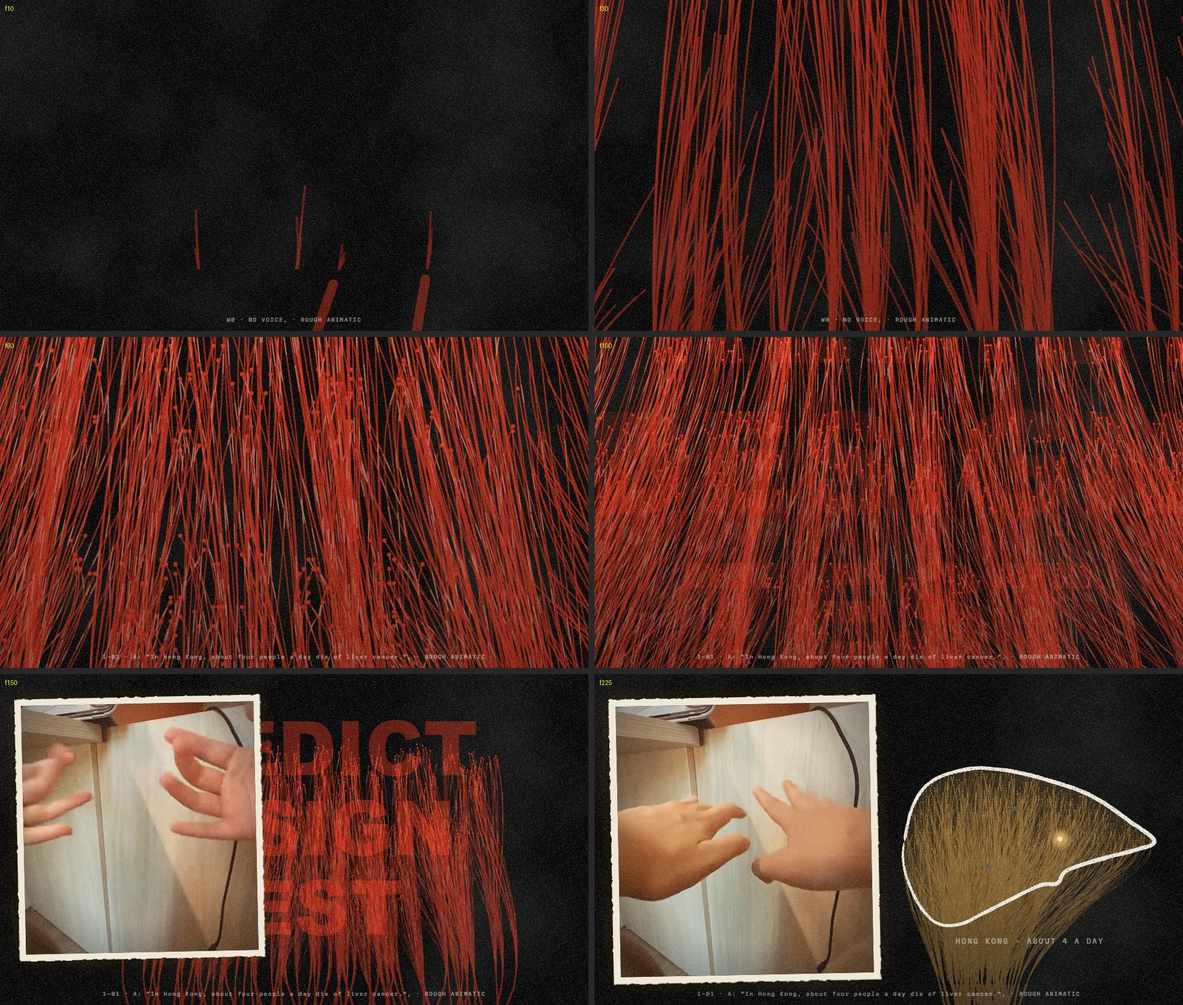
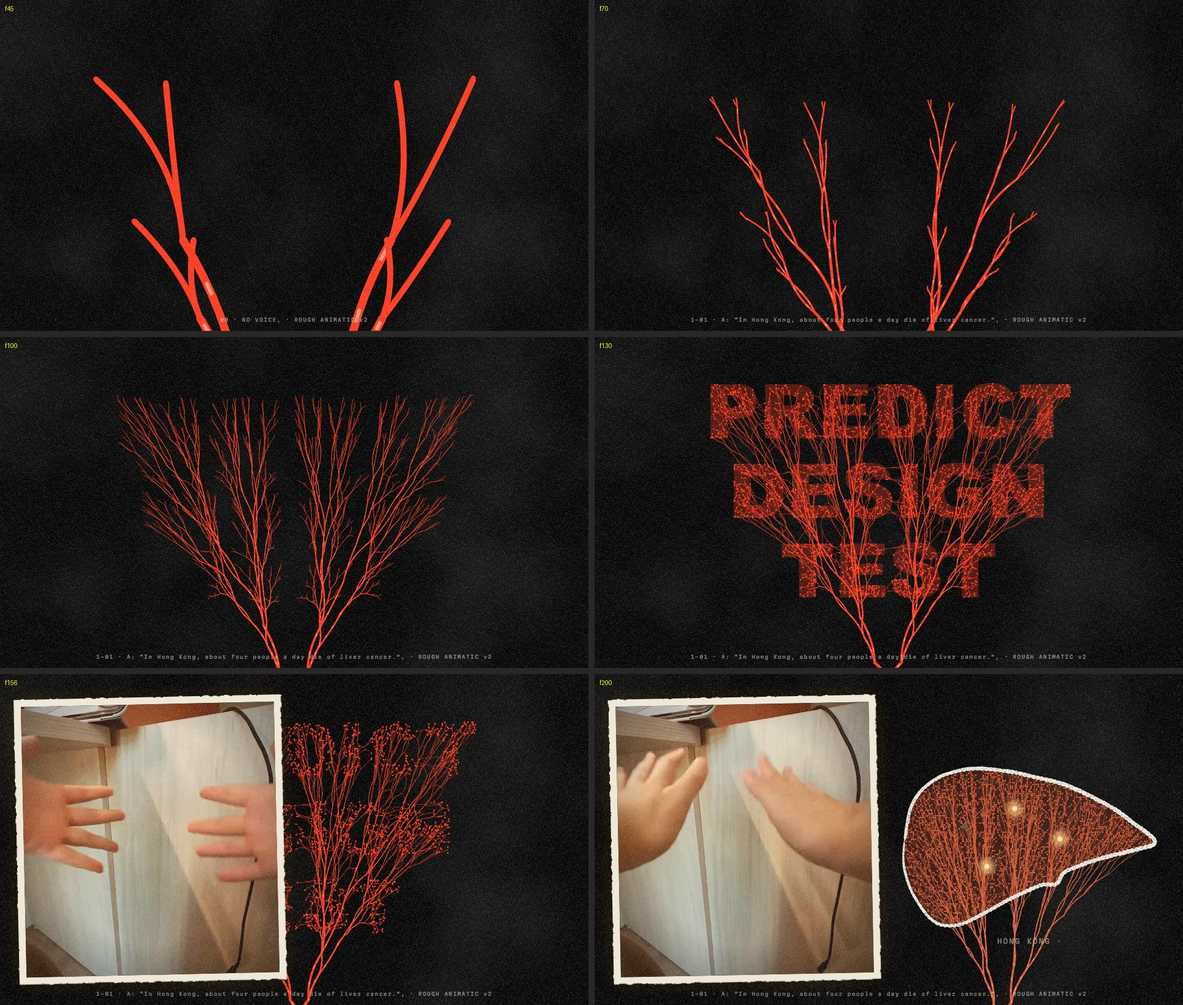
S1 粗稿 v2：血管改成一棵分叉树（一根主干分 11 层，末梢拼字），字到肝用同一棵树平滑变形；四条命可选小灯或像素心

diff --git a/镜头设计_v2/tests/T4_remotion/src/v3/s1/Open.jsx b/镜头设计_v2/tests/T4_remotion/src/v3/s1/Open.jsx
@@ -1,5 +1,6 @@
-// V3-S1-Open (rough animatic, W0 + 1-01): red vessels grow toward a close, low camera, the camera pulls back and the
-// vessels turn out to spell PREDICT / DESIGN / TEST; then they unweave into a liver that sickens while four lights go out.
+// V3-S1-Open (rough animatic v2, W0 + 1-01). One vessel enters from below and keeps forking (11 levels, 2048 tips).
+// The camera rides up the trunk and pulls back: the tips spell PREDICT / DESIGN / TEST. The same tree then slides,
+// node by node, into a liver, which sickens while four lives go out (lights or pixel hearts).
 // Stand-in for the TouchDesigner pass: shapes and timing only.
 import React, {useMemo} from "react";
 import {AbsoluteFill, Sequence, staticFile, useCurrentFrame} from "remotion";
@@ -13,10 +14,16 @@ import {OnCamCard} from "../oncam/Card";
 export const S1_OPEN_FRAMES = 240; // W0 0–60, 1-01 60–240
 
 const WORDS = [["PREDICT", 330], ["DESIGN", 590], ["TEST", 850]];
-const FONT = `900 245px "Arial Black", Impact, sans-serif`;
-const N = 1100, TRUNKS = 64;
+const FONT_FAMILY = `"Arial Black", Impact, sans-serif`;
+const L = 11, LEAVES = 1 << L;
+const ROOT_T = [960, 1190], ROOT_L = [1330, 1190];
 const LIVER = {x: 1010, y: 300, w: 820};
-const SICK = "#9A8A3E", LIVER_OK = "#6E1A10", LIVER_SICK = "#4A4424";
+const SICK = "#8E8A5A", LIVER_OK = "#6E1A10", LIVER_SICK = "#3E3C2C";
+
+// growth: level k edges start at T[k], take D[k] frames; each level starts when its parent is ~80% grown
+const D = Array.from({length: L}, (_, k) => lerp(20, 8, Math.pow(k / (L - 1), 0.7)));
+const T = D.reduce((a, d, k) => [...a, a[k] + 0.8 * d], [0]);
+const MORPH = [140, 182], SWEEP = 14;     // letters → liver, sweeping left to right
 
 const mix = (a, b, t) => {
   const p = h => [1, 3, 5].map(i => parseInt(h.slice(i, i + 2), 16));
@@ -32,116 +39,145 @@ const inside = (poly, x, y) => {
   return c;
 };
 const pick = (pts, n, seed) => pts.map((p, i) => [hash(i, seed), p]).sort((a, b) => a[0] - b[0]).slice(0, n).map(e => e[1]);
+const centroid = pts => [pts.reduce((s, p) => s + p[0], 0) / pts.length, pts.reduce((s, p) => s + p[1], 0) / pts.length];
 
-/** Strand targets on the letters and in the liver, grouped into trunks that leave the bottom edge together. */
-const useStrands = () => useMemo(() => {
+/** Halve the point set along its longer side, recursively: every tree built this way has the same shape. */
+const splitTree = (pts, out, d = 0, parent = -1) => {
+  const id = out.length;
+  out.push({d, parent, c: centroid(pts), n: pts.length});
+  if (d === L) return;
+  const xs = pts.map(p => p[0]), ys = pts.map(p => p[1]);
+  const ax = Math.max(...xs) - Math.min(...xs) >= Math.max(...ys) - Math.min(...ys) ? 0 : 1;
+  const s = [...pts].sort((a, b) => a[ax] - b[ax]), h = s.length / 2;
+  splitTree(s.slice(0, h), out, d + 1, id);
+  splitTree(s.slice(h), out, d + 1, id);
+};
+/** Node positions: each level walks ~2/(levels left) of the way from its parent toward its own centroid, so tips land exactly. */
+const place = (nodes, root) => {
+  const P = [];
+  nodes.forEach((n, i) => { P[i] = n.parent < 0 ? root : [0, 1].map(a => lerp(P[n.parent][a], n.c[a], Math.min(1, 1.9 / (L - n.d + 1)))); });
+  return P;
+};
+
+const useTree = () => useMemo(() => {
   const cv = document.createElement("canvas");
   cv.width = W; cv.height = H;
   const g = cv.getContext("2d");
-  g.fillStyle = "#fff"; g.textAlign = "center"; g.font = FONT;
+  g.fillStyle = "#fff"; g.textAlign = "center"; g.font = `900 245px ${FONT_FAMILY}`;
   WORDS.forEach(([t, y]) => g.fillText(t, W / 2, y));
-  const d = g.getImageData(0, 0, W, H).data;
-  const txt = [];
-  for (let y = 0; y < H; y += 5) for (let x = 0; x < W; x += 5) if (d[(y * W + x) * 4 + 3] > 128) txt.push([x, y]);
+  const px = g.getImageData(0, 0, W, H).data, txt = [];
+  for (let y = 0; y < H; y += 4) for (let x = 0; x < W; x += 4) if (px[(y * W + x) * 4 + 3] > 128) txt.push([x, y]);
   const lp = liverPts(LIVER.x, LIVER.y, LIVER.w), liv = [];
-  for (let y = LIVER.y; y < LIVER.y + LIVER.w * 0.65; y += 9) for (let x = LIVER.x; x < LIVER.x + LIVER.w; x += 9) if (inside(lp, x, y)) liv.push([x, y]);
-  const T = pick(txt, N, 3).sort((a, b) => a[0] - b[0]);
-  const L = pick(liv, N, 5).sort((a, b) => a[0] - b[0]);
-  return T.map((t, i) => {
-    const k = Math.floor(i / (N / TRUNKS));
-    return {t, l: L[i], k, sx: 140 + (W - 280) * (k + 0.5) / TRUNKS + (hash(k, 9) - 0.5) * 60,
-      bend: (hash(k, 11) - 0.5) * 260, fan: (hash(i, 13) - 0.5) * 120, ph: hash(i, 23)};
-  }).map(s => ({...s, start: 44 * Math.abs(s.sx - 940) / 840 + 8 * hash(s.k, 17) + 8 * hash(s.ph * 1e4, 19)}));
+  for (let y = LIVER.y; y < LIVER.y + LIVER.w * 0.65; y += 6) for (let x = LIVER.x; x < LIVER.x + LIVER.w; x += 6) if (inside(lp, x, y)) liv.push([x, y]);
+  const nt = [], nl = [];
+  splitTree(pick(txt, LEAVES, 3), nt);
+  splitTree(pick(liv, LEAVES, 5), nl);
+  const pt = place(nt, ROOT_T), pl = place(nl, ROOT_L);
+  const meanY = Array.from({length: L + 1}, (_, k) => { const ys = pt.filter((_, i) => nt[i].d === k).map(p => p[1]); return ys.reduce((a, b) => a + b, 0) / ys.length; });
+  return {nodes: nt.map((n, i) => ({d: n.d, parent: n.parent, n: n.n, t: pt[i], l: pl[i], delay: SWEEP * clamp01((nt[i].c[0] - 240) / 1440)})), meanY};
 }, []);
 
-/** One thick trunk per bundle, from below the frame up to where its strands fan out. */
-const trunkPath = (s, u) => {
-  const sx = lerp(s.sx, 1260 + (s.sx - W / 2) * 0.12, u), sy = H + 160, split = lerp(sy, lerp(600, 560, u), 0.33);
-  return {sx, sy, x2: sx + s.bend * 0.45, y2: split};
+// camera: rides up with the growth front while zooming out (log-scale zoom so it never jumps), then settles on the full frame
+const camAt = (f, meanY) => {
+  let k = 0;
+  while (k < L && f > T[k] + D[k]) k++;
+  const fr = k >= L ? 1 : clamp01((f - T[k]) / D[k]);
+  const front = k >= L ? meanY[L] : lerp(meanY[k], meanY[k + 1], fr);
+  const z = Math.pow(5.2, 1 - inOut(ramp(f, 0, 126)));
+  const y = lerp(front, H / 2, inOut(ramp(f, 40, 126)));
+  return [z, W / 2, y];
 };
 
-// camera: [frame, zoom, centre x, centre y]
-const CAM = [[0, 4.6, 940, 960], [62, 3.1, 980, 640], [78, 2.8, 960, 600], [122, 1, 960, 540]];
-const camAt = f => {
-  let i = 0;
-  while (i < CAM.length - 2 && f > CAM[i + 1][0]) i++;
-  const [f0, z0, x0, y0] = CAM[i], [f1, z1, x1, y1] = CAM[i + 1];
-  const u = inOut(ramp(f, f0, f1));
-  return [lerp(z0, z1, u), lerp(x0, x1, u), lerp(y0, y1, u)];
-};
+const PIX_HEART = [".XX.XX.", "XXXXXXX", "XXXXXXX", ".XXXXX.", "..XXX..", "...X..."];
+const Heart = ({x, y, cell, fill, stroke}) => <g>
+  {PIX_HEART.flatMap((row, r) => [...row].map((ch, c) => ch === "X" &&
+    <rect key={`${r}-${c}`} x={x + c * cell} y={y + r * cell} width={cell} height={cell} fill={fill} stroke={stroke} strokeWidth={stroke ? 2 : 0}/>))}
+</g>;
 
-const LIGHTS = [[0.24, 0.24, 190], [0.44, 0.17, 203], [0.33, 0.40, 216], [0.62, 0.29, 229]];
+const OFF = [192, 205, 218, 231];
 
-const Scene = () => {
-  const f = useCurrentFrame();
-  const S = useStrands();
-  const [z, cx, cy] = camAt(f);
-  const u = inOut(ramp(f, 132, 176));          // letters → liver
-  const sick = ramp(f, 176, 236);
-  const vein = mix(C.verm, SICK, sick), flow = mix("#FFB09A", "#D8CC8A", sick);
-  const P = (a, b) => [LIVER.x + a * LIVER.w, LIVER.y + b * LIVER.w];
-  return <svg width={W} height={H} style={{position: "absolute"}}>
-    <InkDefs/>
-    <defs>
-      <linearGradient id="s1-fade" gradientUnits="userSpaceOnUse" x1="0" y1={H + 200} x2="0" y2="200">
-        <stop offset="0" stopColor="#fff" stopOpacity="0.25"/><stop offset="1" stopColor="#fff" stopOpacity="1"/>
-      </linearGradient>
-      <mask id="s1-mask"><rect x={-W} y={-H} width={W * 3} height={H * 3} fill="url(#s1-fade)"/></mask>
-      <filter id="s1-glow" x="-200%" y="-200%" width="500%" height="500%"><feGaussianBlur stdDeviation="9"/></filter>
-    </defs>
-    <g transform={`translate(${W / 2} ${H / 2}) scale(${z}) translate(${-cx} ${-cy})`}>
-      {/* liver body under the vessels */}
-      <path d={"M" + liverPts(LIVER.x, LIVER.y, LIVER.w).map(p => p.join(",")).join("L") + "Z"}
-        fill={mix(LIVER_OK, LIVER_SICK, sick)} opacity={0.55 * outCubic(ramp(f, 150, 180))}/>
-      {/* letters, faintly filled once the camera is far enough back to read them */}
-      <g opacity={0.5 * ramp(f, 92, 124) * (1 - u)}>
-        {WORDS.map(([t, y]) => <text key={t} x={W / 2} y={y} textAnchor="middle" fontFamily={`"Arial Black", Impact, sans-serif`}
-          fontWeight={900} fontSize={245} fill={C.verm}>{t}</text>)}
-      </g>
-      <g mask="url(#s1-mask)">
-        {S.map((s, i) => {
-          const grow = outCubic(ramp(f, s.start + 4, s.start + 44));
-          if (grow <= 0) return null;
-          const tx = lerp(s.t[0], s.l[0], u), ty = lerp(s.t[1], s.l[1], u);
-          const tr = trunkPath(s, u), tg = outCubic(ramp(f, s.start - 6, s.start + 10));
-          const d = `M${tr.x2},${tr.y2} C${tr.x2 + s.bend * 0.4},${lerp(tr.y2, ty, 0.35)} ${tx + s.fan},${lerp(tr.y2, ty, 0.75)} ${tx},${ty}`;
-          const first = i % (N / TRUNKS) < 1;
-          return <g key={i}>
-            {first && <path d={`M${tr.sx},${tr.sy} Q${tr.sx + s.bend * 0.1},${(tr.sy + tr.y2) / 2} ${tr.x2},${tr.y2}`} pathLength={1} fill="none"
-              stroke={vein} strokeWidth={7} strokeLinecap="round" strokeDasharray="1 1" strokeDashoffset={1 - tg} opacity={0.9}/>}
-            <path d={d} pathLength={1} fill="none" stroke={vein} strokeWidth={1.5} strokeDasharray="1 1" strokeDashoffset={1 - grow} opacity={0.75}/>
-            {grow > 0.98 && <path d={d} pathLength={1} fill="none" stroke={flow} strokeWidth={1.1} strokeDasharray="0.035 0.2"
-              strokeDashoffset={-(f * 0.011 + s.ph)} opacity={0.8}/>}
-            {grow > 0.98 && <circle cx={tx} cy={ty} r={2.2} fill={vein}/>}
-          </g>;
-        })}
-      </g>
-      {/* liver outline and the four lights */}
-      <g filter="url(#v3-ink)" opacity={ramp(f, 158, 166)}>
-        <InkPath points={liverPts(LIVER.x, LIVER.y, LIVER.w)} seed={301} size={9} progress={outCubic(ramp(f, 158, 192))} pressure="brush" jitter={2}/>
-      </g>
-      {LIGHTS.map(([a, b, off], i) => {
-        const [x, y] = P(a, b), on = ramp(f, 172 + i * 3, 180 + i * 3) * (1 - ramp(f, off, off + 6));
-        const flash = Math.exp(-Math.max(0, f - off) / 3) * (f >= off ? 1 : 0);
-        return <g key={i} opacity={ramp(f, 172, 180)}>
-          <circle cx={x} cy={y} r={26} fill="#FFC77A" opacity={0.7 * on + 0.5 * flash} filter="url(#s1-glow)"/>
-          <circle cx={x} cy={y} r={8} fill={mix("#FFE2B0", "#5A5650", 1 - on)}/>
+const Lives = ({f, lives, P}) => {
+  if (lives === "hearts") {
+    const cell = 9, gap = 22, wid = 7 * cell, x0 = LIVER.x + LIVER.w / 2 - (4 * wid + 3 * gap) / 2, y0 = 232;
+    return <g opacity={ramp(f, 170, 180)}>
+      {OFF.map((off, i) => {
+        const lost = f >= off, flash = lost ? Math.exp(-(f - off) / 2.5) : 0;
+        const shake = lost ? Math.sin((f - off) * 2.4) * 7 * Math.exp(-(f - off) / 4) : 0;
+        const x = x0 + i * (wid + gap) + shake;
+        return <g key={i}>
+          <Heart x={x} y={y0} cell={cell} fill={lost ? "#1A1716" : C.verm} stroke={lost ? "#5A5650" : undefined}/>
+          {flash > 0.02 && <g opacity={flash}><Heart x={x} y={y0} cell={cell} fill="#FFFFFF"/></g>}
         </g>;
       })}
+    </g>;
+  }
+  return <g opacity={ramp(f, 172, 180)}>
+    {[[0.24, 0.24], [0.44, 0.17], [0.33, 0.40], [0.62, 0.29]].map(([a, b], i) => {
+      const [x, y] = P(a, b), off = OFF[i];
+      const on = ramp(f, 172 + i * 3, 180 + i * 3) * (1 - ramp(f, off, off + 6));
+      const flash = f >= off ? Math.exp(-(f - off) / 3) : 0;
+      return <g key={i}>
+        <circle cx={x} cy={y} r={26} fill="#FFC77A" opacity={0.7 * on + 0.5 * flash} filter="url(#s1-glow)"/>
+        <circle cx={x} cy={y} r={8} fill={mix("#FFE2B0", "#5A5650", 1 - on)}/>
+      </g>;
+    })}
+  </g>;
+};
+
+const Scene = ({lives}) => {
+  const f = useCurrentFrame();
+  const {nodes, meanY} = useTree();
+  const [z, cx, cy] = camAt(f, meanY);
+  const sick = ramp(f, 178, 236);
+  const vein = mix(C.verm, SICK, sick), flow = mix("#FFB09A", "#D8D2A8", sick);
+  const pos = nodes.map(n => { const u = inOut(ramp(f, MORPH[0] + n.delay, MORPH[1] + n.delay)); return [lerp(n.t[0], n.l[0], u), lerp(n.t[1], n.l[1], u)]; });
+  const P = (a, b) => [LIVER.x + a * LIVER.w, LIVER.y + b * LIVER.w];
+  const liverPoly = liverPts(LIVER.x, LIVER.y, LIVER.w);
+  return <svg width={W} height={H} style={{position: "absolute"}}>
+    <InkDefs/>
+    <defs><filter id="s1-glow" x="-200%" y="-200%" width="500%" height="500%"><feGaussianBlur stdDeviation="9"/></filter></defs>
+    <g transform={`translate(${W / 2} ${H / 2}) scale(${z}) translate(${-cx} ${-cy})`}>
+      <path d={"M" + liverPoly.map(p => p.join(",")).join("L") + "Z"} fill={mix(LIVER_OK, LIVER_SICK, sick)} opacity={0.6 * inOut(ramp(f, 160, 186))}/>
+      <g opacity={0.3 * ramp(f, 104, 128) * (1 - inOut(ramp(f, 128, 146)))}>
+        {WORDS.map(([t, y]) => <text key={t} x={W / 2} y={y} textAnchor="middle" fontFamily={FONT_FAMILY} fontWeight={900} fontSize={245} fill={C.verm}>{t}</text>)}
+      </g>
+      {nodes.map((n, i) => {
+        if (n.parent < 0) return null;
+        const k = n.d - 1, g = inOut(ramp(f, T[k], T[k] + D[k]));
+        if (g <= 0) return null;
+        const a = pos[n.parent], b = pos[i];
+        const gp = nodes[n.parent].parent, o = gp < 0 ? [a[0], a[1] + 1] : pos[gp];
+        const len = Math.hypot(b[0] - a[0], b[1] - a[1]) || 1, dl = Math.hypot(a[0] - o[0], a[1] - o[1]) || 1;
+        const bow = (hash(i, 31) - 0.5) * len * 0.35; // a little sideways sag so branches don't read as ruled lines
+        const c1 = [a[0] + (a[0] - o[0]) / dl * len * 0.45 - (b[1] - a[1]) / len * bow, a[1] + (a[1] - o[1]) / dl * len * 0.45 + (b[0] - a[0]) / len * bow];
+        const d = `M${a[0].toFixed(1)},${a[1].toFixed(1)} Q${c1[0].toFixed(1)},${c1[1].toFixed(1)} ${b[0].toFixed(1)},${b[1].toFixed(1)}`;
+        const w = 0.9 + 12 * Math.sqrt(n.n / LEAVES);
+        return <g key={i}>
+          <path d={d} pathLength={1} fill="none" stroke={vein} strokeWidth={w} strokeLinecap="round" strokeDasharray="1 1" strokeDashoffset={1 - g}/>
+          {n.d <= 7 && g >= 1 && <path d={d} pathLength={1} fill="none" stroke={flow} strokeWidth={w * 0.45} strokeLinecap="round"
+            strokeDasharray="0.06 0.3" strokeDashoffset={-(f * 0.05 + hash(i, 4))} opacity={0.75}/>}
+          {n.d === L && g >= 1 && <circle cx={b[0]} cy={b[1]} r={2.6} fill={vein}/>}
+        </g>;
+      })}
+      <g filter="url(#v3-ink)" opacity={ramp(f, 162, 172)}>
+        <InkPath points={liverPoly} seed={301} size={9} progress={inOut(ramp(f, 162, 196))} pressure="brush" jitter={2}/>
+      </g>
+      {lives === "lights" && <Lives f={f} lives={lives} P={P}/>}
     </g>
-    <Mono x={LIVER.x + LIVER.w / 2} y={880} size={22} anchor="middle" color={C.dim} letterSpacing={4} reveal={ramp(f, 186, 214)}>
+    {lives === "hearts" && <Lives f={f} lives={lives} P={P}/>}
+    <Mono x={LIVER.x + LIVER.w / 2} y={880} size={22} anchor="middle" color={C.dim} letterSpacing={4} reveal={ramp(f, 188, 214)}>
       HONG KONG · ABOUT 4 A DAY
     </Mono>
     <Mono x={960} y={1050} size={16} color={C.dim} anchor="middle" letterSpacing={3}>
-      {f < 60 ? "W0 · NO VOICE" : "1-01 · A: “In Hong Kong, about four people a day die of liver cancer.”"} · ROUGH ANIMATIC
+      {f < 60 ? "W0 · NO VOICE" : "1-01 · A: “In Hong Kong, about four people a day die of liver cancer.”"} · ROUGH ANIMATIC v2
     </Mono>
   </svg>;
 };
 
-export const V3S1Open = () => <BoilProvider rate={2.5}>
+export const V3S1Open = ({lives = "lights"}) => <BoilProvider rate={2.5}>
   <Stage grain={0.16}>
-    <Scene/>
-    {/* A's voice starts at 1-01 over the letters; the face comes in once the vessels head for the liver */}
+    <Scene lives={lives}/>
+    {/* A's voice starts at 1-01 over the letters; the face comes in as the tree heads for the liver */}
     <Sequence from={140} durationInFrames={100}>
       <AbsoluteFill><OnCamCard who="A" src={staticFile("placeholder_hand.mp4")} videoStart={0} dur={100}/></AbsoluteFill>
     </Sequence>

diff --git a/镜头设计_v3/storyboard/S1_分镜_v1.md b/镜头设计_v3/storyboard/S1_分镜_v1.md
@@ -30,10 +30,18 @@
 - 我的建议：
   - 三个词用 **PREDICT / DESIGN / TEST**，正好是片子里的三步：AlphaFold 预测锁、Chemistry42 设计钥匙、实验室测试。最后落在 TEST，接片名 *WORTH TESTING?*，也呼应结尾"最终还是实验说了算"。
   - 2 秒不够"推进 + 长满 + 拉出"。办法：W0 只做推进和长血管，拉出字的动作延续到 1-01 前 2 秒左右。A 的声音先进（J-cut），脸等血管开始变成肝时再出。这样不用改剧本时长。
-- 草图：`styleframes/S1/S1_W0-101_rough_contact.jpg`，合成 `V3-S1-Open`（`src/v3/s1/Open.jsx`）
+- 草图（v2 起是一棵树）：`styleframes/S1/S1_W0-101_rough_contact.jpg`，合成 `V3-S1-Open`（`src/v3/s1/Open.jsx`）
   - 0–2 s：贴近、偏低，粗血管从中间往两边长出来，分叉
   - 2–4 s：往上推，越来越密；然后拉远，读出 PREDICT / DESIGN / TEST
 - 还要定：三个词定不定；字是全部用血管"画"出来，还是血管加淡淡的实心字（现在是后者，读起来更清楚）。
+- 导演反馈（10-30，看完粗稿 v1）：
+  - 三个词 **PREDICT / DESIGN / TEST 定了**。
+  - 血管不对。要的是**从一根血管开始**，一分二、二分四，越分越多，最后分出来的末梢拼成字；不是一大把线从底下长上来。
+  - 字解开、变成肝这一步**一定要非常顺滑**。
+- 粗稿 v2 的改法：
+  - 整个血管网是**一棵树**：一根主干，往上一层层二分叉，共 11 层，2048 个末梢正好落在字上。越往上越细。
+  - 镜头一开始贴着那一根主干，跟着分叉往上走，同时慢慢拉远。
+  - 肝也是**同一棵树**，同样的分叉结构，末梢落在肝里。变形时每一个分叉点从"字里的位置"平滑滑到"肝里的位置"，从左往右依次过去，中间不会断线、不跳。
 
 ## 1-01 · 00:02–00:08 · A 出镜 · ✏
 
@@ -52,6 +60,8 @@
 - 草图：同上，4.5–8 s
 - 还要定：四盏灯 vs 四个小人；肝变色的颜色（现在偏黄褐，可能太"枯草"了）。
 - 正式版：血管和流动放到 TouchDesigner 里做（粒子沿血管流），Remotion 这版只定构图和时间。
+- 导演反馈（10-30）：同意血管解开变成肝；**小灯可以**。另一个选项：做成游戏里掉血那样，**四颗像素心一颗一颗掉**。
+- 粗稿 v2：两种都做，`lives` 参数切换（`lights` / `hearts`），对比静帧放在 `styleframes/S1/`。像素心是自己画的通用 8-bit 心形，不照搬任何游戏的图标。
 
 ## 1-02 · 00:08–00:25 · A 画外音 · ⬜
 
